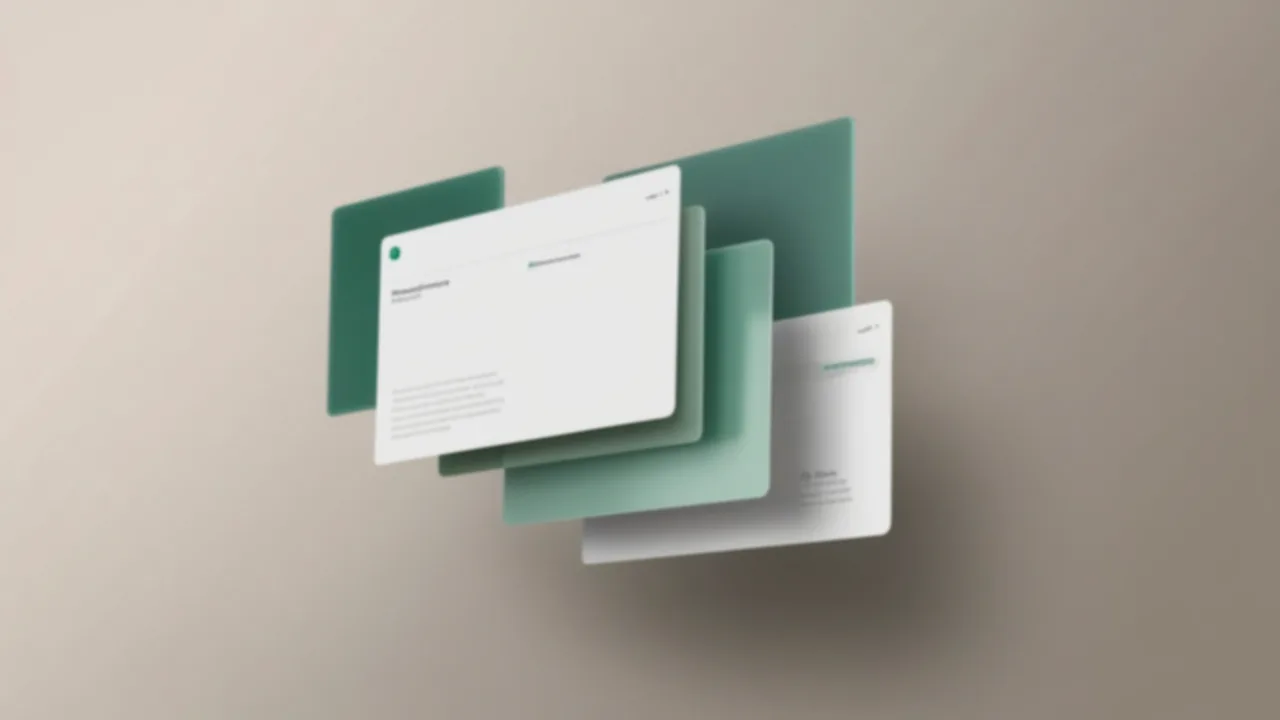
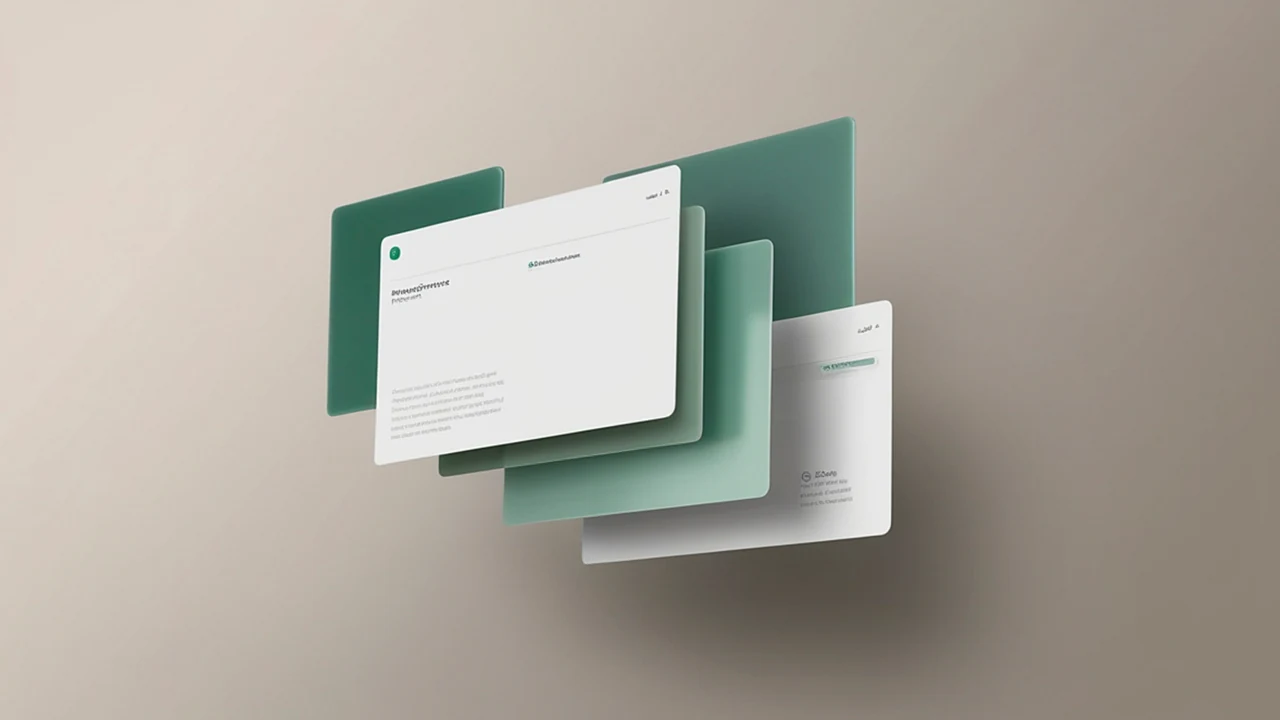
Phones: shorter homepage and Contact us in place of sign-up; sharper video cover
- Homepage on phones hides supporting detail (builder screenshots, quote, card
  descriptions, fact list, last two FAQs): about 9,100px down to 7,500px
- Phones and tablets: sign-up buttons become "Contact us" (sign-up tracking dropped),
  duplicate contact buttons hidden, Log in removed from the phone menu
- Video cover re-exported without blur, with a 2560px version

diff --git a/index.html b/index.html
@@ -142,7 +142,7 @@
 <link rel="icon" href="/favicon.ico" sizes="any">
 <link rel="icon" href="/favicon-512.png" type="image/png" sizes="512x512">
 <link rel="apple-touch-icon" href="/favicon-180.png">
-<link rel="stylesheet" href="/site.css?v=20261026x">
+<link rel="stylesheet" href="/site.css?v=20261027a">
 </head>
 <body class="home">
 <a class="skip-link" href="#main">Skip to content</a>
@@ -229,7 +229,7 @@
       </div>
     </header>
     <figure class="xvid" data-video="N9FJXK8YhtY">
-      <a class="xvid-play" href="https://youtu.be/N9FJXK8YhtY" target="_blank" rel="noopener" aria-describedby="xvid-note"><img src="/images/video/intro-poster-1280.webp" srcset="/images/video/intro-poster-1280.webp 1280w, /images/video/intro-poster-1920.webp 1920w" sizes="(max-width:820px) 100vw, 1100px" alt="" width="1280" height="720" loading="lazy" decoding="async"><span class="xvid-btn"><svg viewBox="0 0 24 24" aria-hidden="true"><path d="M8 5.5v13l11-6.5z" fill="currentColor"/></svg>Watch the video</span></a>
+      <a class="xvid-play" href="https://youtu.be/N9FJXK8YhtY" target="_blank" rel="noopener" aria-describedby="xvid-note"><img src="/images/video/intro-poster-1280.webp?v=2" srcset="/images/video/intro-poster-1280.webp?v=2 1280w, /images/video/intro-poster-1920.webp?v=2 1920w, /images/video/intro-poster-2560.webp?v=2 2560w" sizes="(max-width:820px) 100vw, 1200px" alt="" width="1280" height="720" loading="lazy" decoding="async"><span class="xvid-btn"><svg viewBox="0 0 24 24" aria-hidden="true"><path d="M8 5.5v13l11-6.5z" fill="currentColor"/></svg>Watch the video</span></a>
       <figcaption id="xvid-note">The video plays from YouTube, which may set cookies once you press play. <a href="/privacy/#cookies">Read our cookie policy</a>.</figcaption>
     </figure>
     <div class="xsh-tabs" role="tablist" aria-label="Product screens"><button type="button" role="tab" id="xsh-tab-build" aria-controls="xsh-build" aria-selected="true"><span>1</span>Build</button><button type="button" role="tab" id="xsh-tab-shape" aria-controls="xsh-shape" aria-selected="false" tabindex="-1"><span>2</span>Shape</button><button type="button" role="tab" id="xsh-tab-test" aria-controls="xsh-test" aria-selected="false" tabindex="-1"><span>3</span>Test</button></div>
@@ -459,7 +459,7 @@
 <script src="/site-config.js?v=20261005a"></script>
 <script src="/analytics.js?v=20261005a"></script>
 <script src="/consent.js?v=20261005a"></script>
-<script src="/nav.js?v=20261026b"></script>
+<script src="/nav.js?v=20261027c"></script>
 <script src="/site-x.js?v=20261026b"></script>
 <script src="/effects.js?v=20261004v"></script>
 </body>

diff --git a/nav.js b/nav.js
@@ -87,3 +87,41 @@
     try { localStorage.setItem(key, '1'); } catch(e) {}
   });
 })();
+
+// Phones and tablets: the app is built for desktop, so sign-up buttons become "Contact us".
+// Links are swapped for fresh copies so the sign-up click tracking does not follow them.
+(function(){
+  var mq = window.matchMedia('(max-width: 820px)');
+  var swapped = [];
+  function toContact(){
+    document.querySelectorAll('a[data-signup], a[href*="ostifycustomerauth"]').forEach(function(a){
+      var c = a.cloneNode(true);
+      var icon = c.querySelector('svg');
+      c.removeAttribute('data-signup');
+      c.href = '/contact/';
+      c.textContent = 'Contact us';
+      if (icon) { c.appendChild(document.createTextNode(' ')); c.appendChild(icon); }
+      a.replaceWith(c);
+      swapped.push([c, a]);
+      // If a contact button already sits beside it, keep that one (its wording is more specific)
+      // and give it the main button style if the sign-up button had it.
+      var twin = [].slice.call(c.parentElement.children).filter(function(s){
+        return s !== c && s.tagName === 'A' && /^\/contact\/(\?|#|$)/.test(s.getAttribute('href') || '');
+      })[0];
+      if (twin) {
+        c.hidden = true;
+        if (c.classList.contains('xb--light') && twin.classList.contains('xb--ghost')) { twin.classList.replace('xb--ghost', 'xb--light'); promoted.push(twin); }
+      }
+    });
+  }
+  var promoted = [];
+  function restore(){
+    swapped.forEach(function(p){ p[0].replaceWith(p[1]); });
+    promoted.forEach(function(t){ t.classList.replace('xb--light', 'xb--ghost'); });
+    swapped = []; promoted = [];
+  }
+  function apply(){ if (mq.matches && !swapped.length) toContact(); else if (!mq.matches && swapped.length) restore(); }
+  if (document.readyState === 'loading') document.addEventListener('DOMContentLoaded', function(){ setTimeout(apply, 0); });
+  else setTimeout(apply, 0);
+  if (mq.addEventListener) mq.addEventListener('change', apply);
+})();

diff --git a/site.css b/site.css
@@ -1739,3 +1739,21 @@ body{background:var(--cp-white);color:var(--cp-ink)}
 .xcred{column-gap:24px;row-gap:6px}
 .xcred li+li::before{display:none}
 @media(max-width:820px){.xh .xcred{margin-bottom:72px}}
+
+/* Homepage on phones: lead with what it is, show it, why trust it, how to start */
+@media(max-width:600px){
+  .home .xh-free,
+  .home .xquote,
+  .home #product .xsh-tabs,
+  .home #product .xsh-panel,
+  .home #product .xvid figcaption,
+  .home .xvault-facts,
+  .home .xtypes--cards li>p{display:none}
+  .home #product .xs-lede{margin-bottom:0}
+  .home .xh-art .chat-demo{width:240px}
+  .home .xh .xcred{margin-bottom:56px}
+  .home .xfaq details:nth-child(n+5){display:none}
+  .home .xtypes--cards li{gap:10px}
+}
+@media(max-width:600px){.home .xtypes--cards .xt-chat{margin-top:4px}}
+@media(max-width:820px){.mm-login{display:none}}

diff --git a/plans/index.html b/plans/index.html
@@ -149,7 +149,7 @@
 <link rel="icon" href="/favicon.ico" sizes="any">
 <link rel="icon" href="/favicon-512.png" type="image/png" sizes="512x512">
 <link rel="apple-touch-icon" href="/favicon-180.png">
-<link rel="stylesheet" href="/site.css?v=20261026x">
+<link rel="stylesheet" href="/site.css?v=20261027a">
 </head>
 <body>
 <a class="skip-link" href="#main">Skip to content</a>
@@ -332,7 +332,7 @@
 <script src="/site-config.js?v=20261005a"></script>
 <script src="/analytics.js?v=20261005a"></script>
 <script src="/consent.js?v=20261005a"></script>
-<script src="/nav.js?v=20261026b"></script>
+<script src="/nav.js?v=20261027c"></script>
 <script src="/site-x.js?v=20261026b"></script>
 <script src="/effects.js?v=20261004v"></script>
 </body>

diff --git a/trust/index.html b/trust/index.html
@@ -45,7 +45,7 @@
 <link rel="icon" href="/favicon.ico" sizes="any">
 <link rel="icon" href="/favicon-512.png" type="image/png" sizes="512x512">
 <link rel="apple-touch-icon" href="/favicon-180.png">
-<link rel="stylesheet" href="/site.css?v=20261026x">
+<link rel="stylesheet" href="/site.css?v=20261027a">
 </head>
 <body>
 <a class="skip-link" href="#main">Skip to content</a>
@@ -193,7 +193,7 @@
 <script src="/site-config.js?v=20261005a"></script>
 <script src="/analytics.js?v=20261005a"></script>
 <script src="/consent.js?v=20261005a"></script>
-<script src="/nav.js?v=20261026b"></script>
+<script src="/nav.js?v=20261027c"></script>
 <script src="/site-x.js?v=20261026b"></script>
 <script src="/effects.js?v=20261004v"></script>
 <script>

diff --git a/architecture/index.html b/architecture/index.html
@@ -45,7 +45,7 @@
 <link rel="icon" href="/favicon.ico" sizes="any">
 <link rel="icon" href="/favicon-512.png" type="image/png" sizes="512x512">
 <link rel="apple-touch-icon" href="/favicon-180.png">
-<link rel="stylesheet" href="/site.css?v=20261026x">
+<link rel="stylesheet" href="/site.css?v=20261027a">
 </head>
 <body>
 <a class="skip-link" href="#main">Skip to content</a>
@@ -156,7 +156,7 @@
 <script src="/site-config.js?v=20261005a"></script>
 <script src="/analytics.js?v=20261005a"></script>
 <script src="/consent.js?v=20261005a"></script>
-<script src="/nav.js?v=20261026b"></script>
+<script src="/nav.js?v=20261027c"></script>
 <script src="/site-x.js?v=20261026b"></script>
 <script src="/effects.js?v=20261004v"></script>
 </body>

diff --git a/assurance/index.html b/assurance/index.html
@@ -46,7 +46,7 @@
 <link rel="icon" href="/favicon.ico" sizes="any">
 <link rel="icon" href="/favicon-512.png" type="image/png" sizes="512x512">
 <link rel="apple-touch-icon" href="/favicon-180.png">
-<link rel="stylesheet" href="/site.css?v=20261026x">
+<link rel="stylesheet" href="/site.css?v=20261027a">
 </head>
 <body>
 <a class="skip-link" href="#main">Skip to content</a>
@@ -211,7 +211,7 @@
 <script src="/site-config.js?v=20261005a"></script>
 <script src="/analytics.js?v=20261005a"></script>
 <script src="/consent.js?v=20261005a"></script>
-<script src="/nav.js?v=20261026b"></script>
+<script src="/nav.js?v=20261027c"></script>
 <script src="/site-x.js?v=20261026b"></script>
 <script src="/effects.js?v=20261004v"></script>
 </body>

diff --git a/clinicians/index.html b/clinicians/index.html
@@ -45,7 +45,7 @@
 <link rel="icon" href="/favicon.ico" sizes="any">
 <link rel="icon" href="/favicon-512.png" type="image/png" sizes="512x512">
 <link rel="apple-touch-icon" href="/favicon-180.png">
-<link rel="stylesheet" href="/site.css?v=20261026x">
+<link rel="stylesheet" href="/site.css?v=20261027a">
 </head>
 <body>
 <a class="skip-link" href="#main">Skip to content</a>
@@ -175,7 +175,7 @@
 <script src="/site-config.js?v=20261005a"></script>
 <script src="/analytics.js?v=20261005a"></script>
 <script src="/consent.js?v=20261005a"></script>
-<script src="/nav.js?v=20261026b"></script>
+<script src="/nav.js?v=20261027c"></script>
 <script src="/site-x.js?v=20261026b"></script>
 <script src="/effects.js?v=20261004v"></script>
 </body>

diff --git a/company/index.html b/company/index.html
@@ -69,7 +69,7 @@
 <link rel="icon" href="/favicon.ico" sizes="any">
 <link rel="icon" href="/favicon-512.png" type="image/png" sizes="512x512">
 <link rel="apple-touch-icon" href="/favicon-180.png">
-<link rel="stylesheet" href="/site.css?v=20261026x">
+<link rel="stylesheet" href="/site.css?v=20261027a">
 </head>
 <body>
 <a class="skip-link" href="#main">Skip to content</a>
@@ -203,7 +203,7 @@
 <script src="/site-config.js?v=20261005a"></script>
 <script src="/analytics.js?v=20261005a"></script>
 <script src="/consent.js?v=20261005a"></script>
-<script src="/nav.js?v=20261026b"></script>
+<script src="/nav.js?v=20261027c"></script>
 <script src="/site-x.js?v=20261026b"></script>
 <script src="/effects.js?v=20261004v"></script>
 </body>

diff --git a/contact/index.html b/contact/index.html
@@ -46,7 +46,7 @@
 <link rel="icon" href="/favicon.ico" sizes="any">
 <link rel="icon" href="/favicon-512.png" type="image/png" sizes="512x512">
 <link rel="apple-touch-icon" href="/favicon-180.png">
-<link rel="stylesheet" href="/site.css?v=20261026x">
+<link rel="stylesheet" href="/site.css?v=20261027a">
 </head>
 <body>
 <a class="skip-link" href="#main">Skip to content</a>
@@ -160,7 +160,7 @@
 <script src="/site-config.js?v=20261005a"></script>
 <script src="/analytics.js?v=20261005a"></script>
 <script src="/consent.js?v=20261005a"></script>
-<script src="/nav.js?v=20261026b"></script>
+<script src="/nav.js?v=20261027c"></script>
 <script src="/site-x.js?v=20261026b"></script>
 <script src="/effects.js?v=20261004v"></script>
 </body>

diff --git a/feedback/index.html b/feedback/index.html
@@ -11,7 +11,7 @@
 <link rel="icon" href="/favicon.ico" sizes="any">
 <link rel="icon" href="/favicon-512.png" type="image/png" sizes="512x512">
 <link rel="apple-touch-icon" href="/favicon-180.png">
-<link rel="stylesheet" href="/site.css?v=20261026x">
+<link rel="stylesheet" href="/site.css?v=20261027a">
 </head>
 <body>
 <a class="skip-link" href="#main">Skip to content</a>
@@ -136,7 +136,7 @@
 <script src="/site-config.js?v=20261005a"></script>
 <script src="/analytics.js?v=20261005a"></script>
 <script src="/consent.js?v=20261005a"></script>
-<script src="/nav.js?v=20261026b"></script>
+<script src="/nav.js?v=20261027c"></script>
 <script src="/site-x.js?v=20261026b"></script>
 <script src="/effects.js?v=20261004v"></script>
 </body>

diff --git a/founders/index.html b/founders/index.html
@@ -45,7 +45,7 @@
 <link rel="icon" href="/favicon.ico" sizes="any">
 <link rel="icon" href="/favicon-512.png" type="image/png" sizes="512x512">
 <link rel="apple-touch-icon" href="/favicon-180.png">
-<link rel="stylesheet" href="/site.css?v=20261026x">
+<link rel="stylesheet" href="/site.css?v=20261027a">
 </head>
 <body>
 <a class="skip-link" href="#main">Skip to content</a>
@@ -221,7 +221,7 @@
 <script src="/site-config.js?v=20261005a"></script>
 <script src="/analytics.js?v=20261005a"></script>
 <script src="/consent.js?v=20261005a"></script>
-<script src="/nav.js?v=20261026b"></script>
+<script src="/nav.js?v=20261027c"></script>
 <script src="/site-x.js?v=20261026b"></script>
 <script src="/effects.js?v=20261004v"></script>
 </body>
